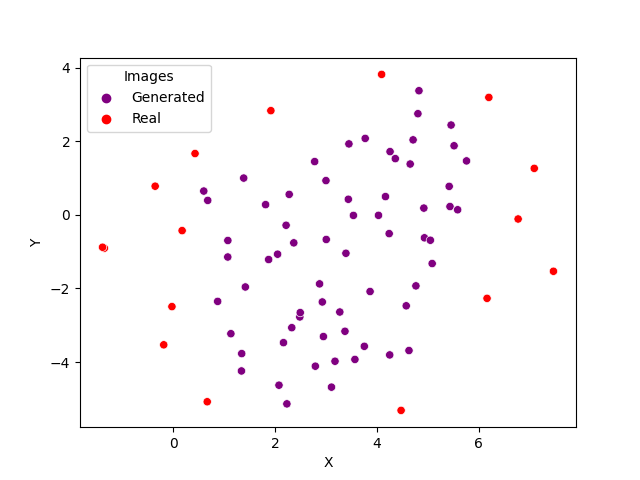
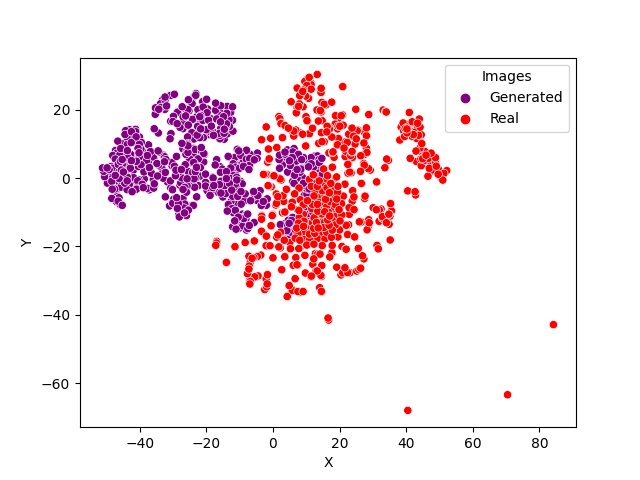
Implemented tsne on the 500 first points

diff --git a/main.py b/main.py
@@ -17,8 +17,7 @@ def run_exp(argsdict):
     device = 'cuda' if torch.cuda.is_available() else 'cpu'
     n_iter = 50 # N training iterations
     n_critic_updates = 1 # N critic updates per generator update
-    train_batch_size = 64
-    test_batch_size = 512
+    train_batch_size = argsdict['batch_size']
     lr = 1e-4
     beta1 = 0.5
     beta2 = 0.9
@@ -53,8 +52,9 @@ def run_exp(argsdict):
           of memory. \n You can try setting batch_size=1 to reduce memory usage")
         device = torch.device("cpu")
 
-    train_loader, valid_loader, test_loader = get_data(argsdict)
+    train_loader, valid_loader, test_loader, num_samples = get_data(argsdict)
     print(device)
+    print(num_samples)
     generator = Generator(image_shape, hidden_dim[0], hidden_dim[1], z_dim, encoding).to(device)
     # generator = Generatorsvhn(z_dim, hidden_dim).to(device)
     critic = Critic(image_shape, 400, 400).to(device)
@@ -72,12 +72,18 @@ def run_exp(argsdict):
     losses_Generator=[]
     losses_Discriminator=[]
 
+
+
     # COMPLETE TRAINING PROCEDURE
     for epoch in range(n_iter):
         G_losses, D_losses=[], []
+        if argsdict['visualize']:
+            real_imgs=torch.zeros([num_samples, image_shape[1], image_shape[2]])
         for i_batch, sample_batch in enumerate(train_loader):
             optim_critic.zero_grad()
             real_img, label_batch=sample_batch[0].cuda(), sample_batch[1]
+            if argsdict['visualize']:
+                real_imgs[i_batch*train_batch_size:i_batch*train_batch_size+train_batch_size]=real_img.squeeze(1)
             #fake img
             noise=Variable(torch.normal(torch.zeros(train_batch_size, z_dim), torch.ones(train_batch_size, z_dim))).cuda()
             fake_img=generator(noise)
@@ -115,7 +121,9 @@ def run_exp(argsdict):
             #A bit hacky but reset iterators
             train_loader, valid_loader, test_loader = get_data(argsdict)
         if argsdict['visualize']:
-            visualize_tsne(fake_img, real_img, argsdict, epoch)
+            noise = Variable(torch.normal(torch.zeros(500, z_dim), torch.ones(500, z_dim))).cuda()
+            fake_imgs = generator(noise)
+            visualize_tsne(fake_imgs, real_imgs[:500], argsdict, epoch)
         with torch.no_grad():
             img=generator(Fix_Noise)
         # print(img[0])
@@ -132,7 +140,7 @@ def run_exp(argsdict):
 
 if __name__ == '__main__':
     parser = argparse.ArgumentParser(description='Project for IFT6269 on fgans')
-    parser.add_argument('--dataset', type=str, default='svhn',
+    parser.add_argument('--dataset', type=str, default='MNIST',
                         help='Dataset you want to use. Options include MNIST, svhn, Gaussian, and CIFAR')
     parser.add_argument('--divergence', type=str, default='total_variation',
                         help='divergence to use. Options include total_variation, forward_kl, reverse_kl, pearson, hellinger, jensen_shannon, or all')

diff --git a/utils.py b/utils.py
@@ -117,7 +117,7 @@ def get_data(argsdict):
     val_iter = torch.utils.data.DataLoader(val, batch_size=BATCH_SIZE, shuffle=True)
     test_iter = torch.utils.data.DataLoader(test, batch_size=BATCH_SIZE, shuffle=True)
 
-    return train_iter, val_iter, test_iter
+    return train_iter, val_iter, test_iter, len(train)
 
 def GaussianGen(argsdict, batch_size, Total):
     #Todo possibly a more efficient way to do this
